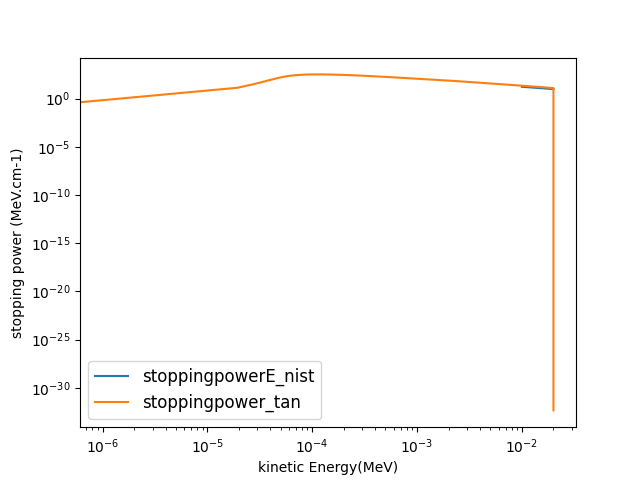
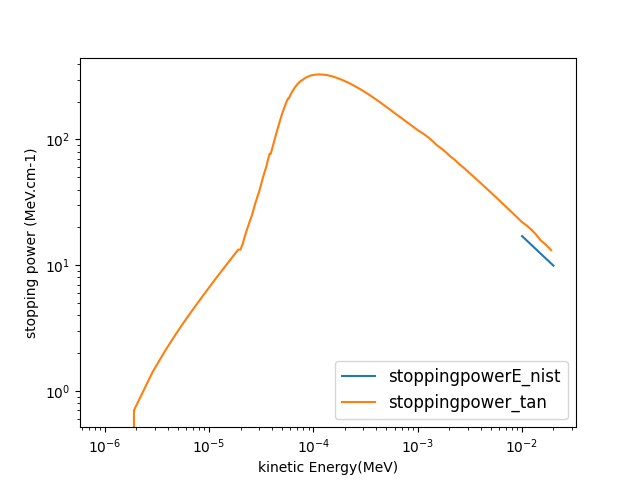
test2

diff --git a/MCTDCRcode/TDCR_model_lib.py b/MCTDCRcode/TDCR_model_lib.py
@@ -277,7 +277,7 @@ e1 = np.linspace(1e4,2e4,100)
 for i in e1:
     dEdx1.append(stop(i,rho=0.866,Z=5.199,A=11.04))
 #'''
-e2 = np.linspace(0,2e4,20000)
+e2 = np.linspace(0,1.9e4,20000)
 for i in range(20000):
      position = int(e2[i])
      dEdx2.append(float(data_TanXia_f[position]))
@@ -357,7 +357,7 @@ for i in range(800000):
 #'''
 #e1 = np.linspace(2e-5,2e-2,1000)
 x1 = np.linspace(1e-2,2e-2,100)
-x2 = np.linspace(0,2e-2,20000)
+x2 = np.linspace(0,1.9e-2,20000)
 plt.plot(x1,dEdx1,label='stoppingpowerE_nist')
 plt.plot(x2,dEdx2,label='stoppingpower_tan')
 plt.xscale('log')
